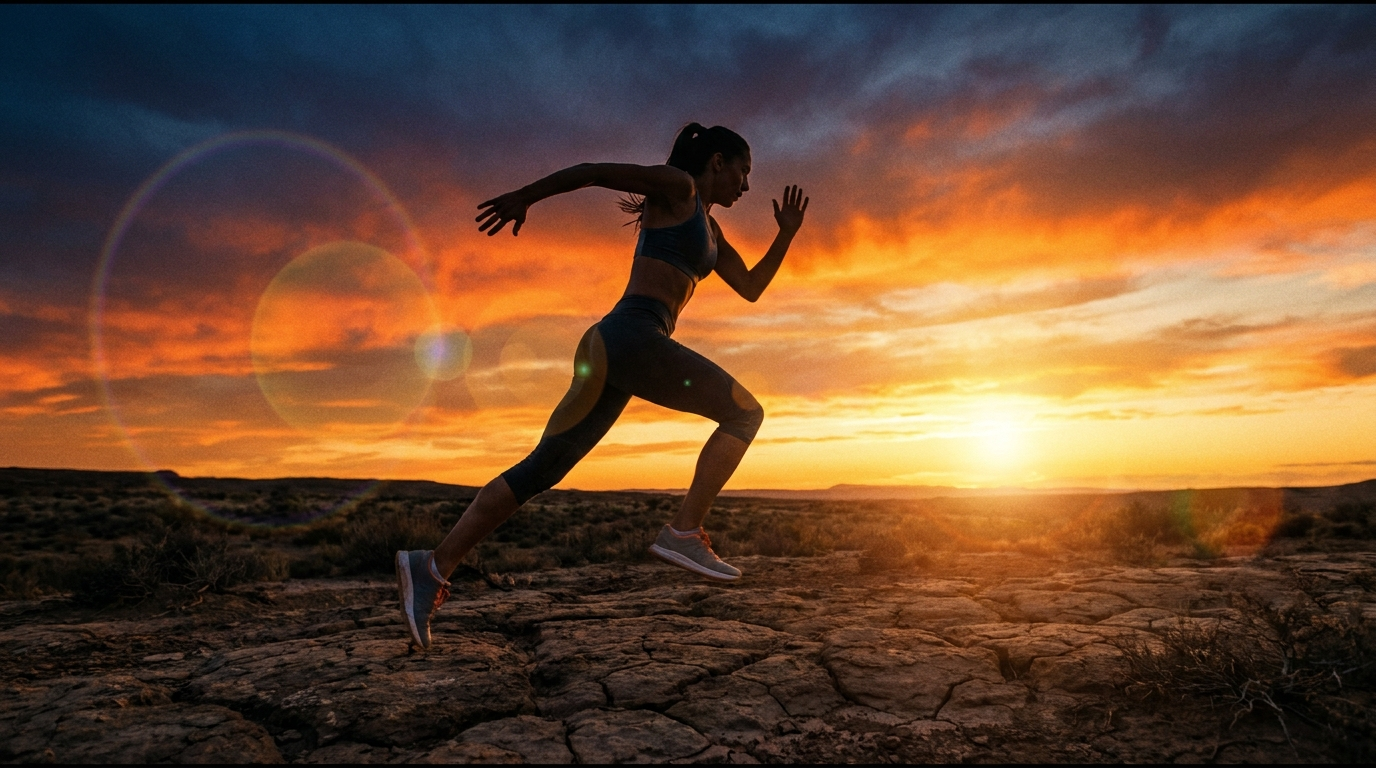
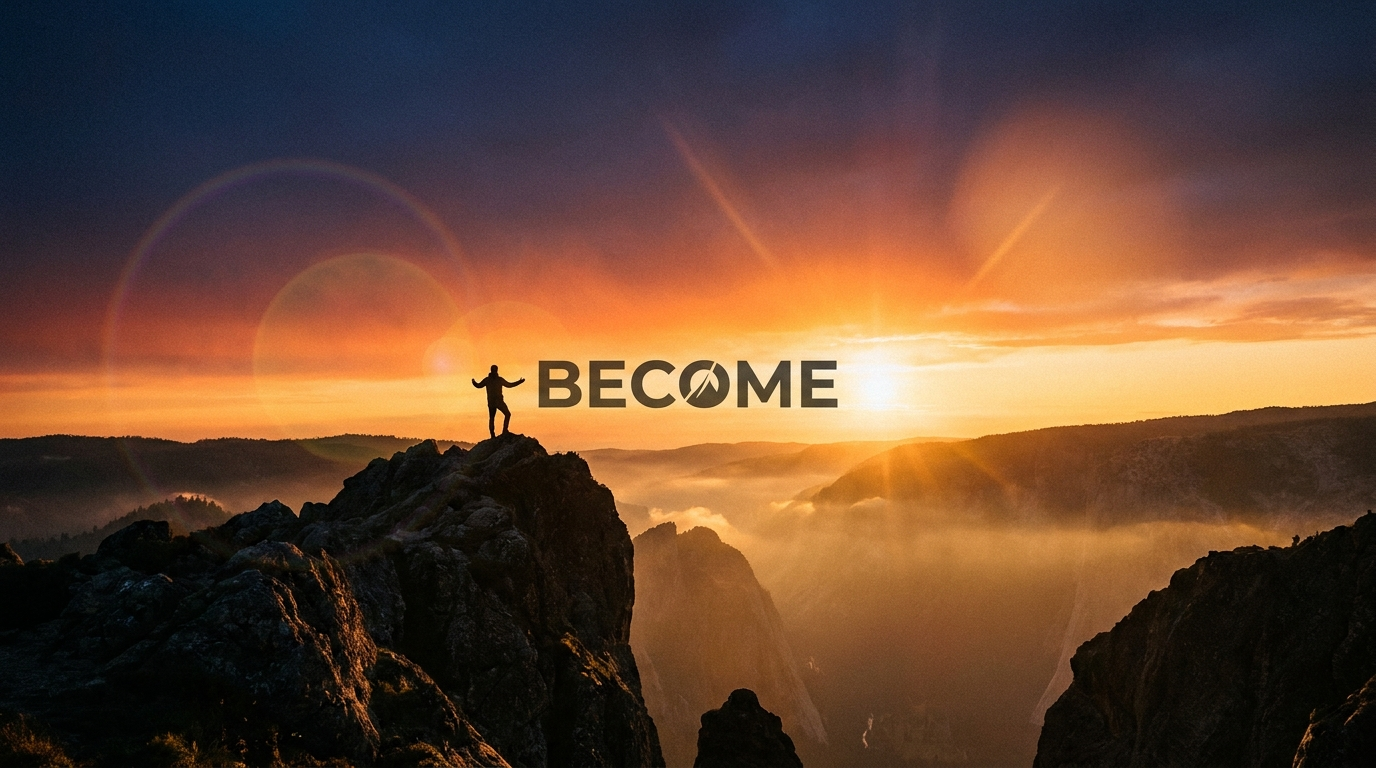
feat(og): use BECOME silhouette+sunset as social preview image

diff --git a/app/layout.tsx b/app/layout.tsx
@@ -36,9 +36,9 @@ export const metadata: Metadata = {
     siteName: "Become",
     images: [
       {
-        url: "/mountain-hero.png",
-        width: 1200,
-        height: 800,
+        url: "/og-image.png",
+        width: 1376,
+        height: 768,
         alt: "Become — The best time is now.",
       },
     ],
@@ -49,7 +49,7 @@ export const metadata: Metadata = {
     title: `Become. ${SITE.tagline}`,
     description:
       "A community for people who want to stop 'trying' and just start being. Two habits. Three weeks. Every day, together.",
-    images: ["/mountain-hero.png"],
+    images: ["/og-image.png"],
   },
 };
 